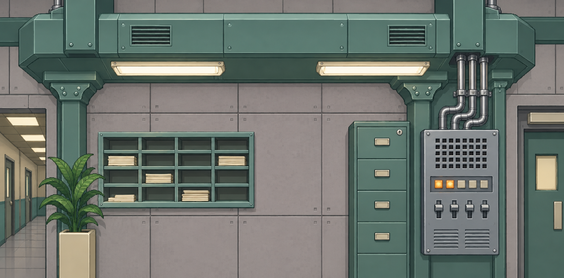
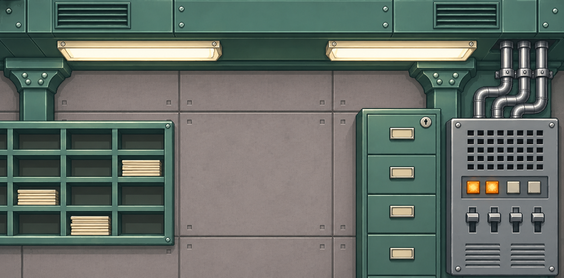
Revise reception portrait background: tighter workstation framing
Owner/PMO correction: the integrated portrait background read as a wide
room slice. The owner's revised Codex background (plant, hallway and
right-hand door removed; tightened to the receptionist's workstation)
replaces art/portraits/receptionist/reception_background.png at the same
path: centred exact-aspect crop + Pillow LANCZOS to 564x278, no palette,
cleanup, dither or sharpening. 2f23075f... -> 16fe3a96...
Game QA pin updated; NPC-hidden QA proof saved.

diff --git a/game/qa/run_qa.js b/game/qa/run_qa.js
@@ -42,7 +42,8 @@ const MAINTENANCE = CLEANED.map((n) => `art/ui/sprites/choice_cards/${n}.png`).c
 // are the ONLY files the art/ allowlist admits beyond OWNER_ART; anything else under art/ fails.
 const PRODUCTION_ART = {
[2 lines of base64/hex data omitted]
+  // Revised 2026-11-07 (docs/59): tighter workstation framing; was 2f23075f... (docs/56/57).
[2 lines of base64/hex data omitted]
 };
 const SCENE_ART = 'art/scenes/conference_hall/reception/reception_scene.png';
@@ -386,6 +387,7 @@ async function artChecks(browser, base, measured, c) {
   // outside the portrait aperture may change.
   await page.evaluate(() => { document.getElementById('portraitNpc').style.visibility = 'hidden'; });
   const off = await page.screenshot({ clip: { x: 0, y: 0, width: 1920, height: 1080 } });
+  fs.writeFileSync(path.join(SHOTS, '00a_reception_art_npc_hidden_qa_only.png'), off);
   const cmpOff = compareScreen(off, measured, { npc: false });
   const d = diffInRect(on, off, P);
   c('QA-only NPC hide: the portrait background stays intact and exact', cmpOff.portraitBad === 0 && cmpOff.npcShown === 0, cmpOff);
